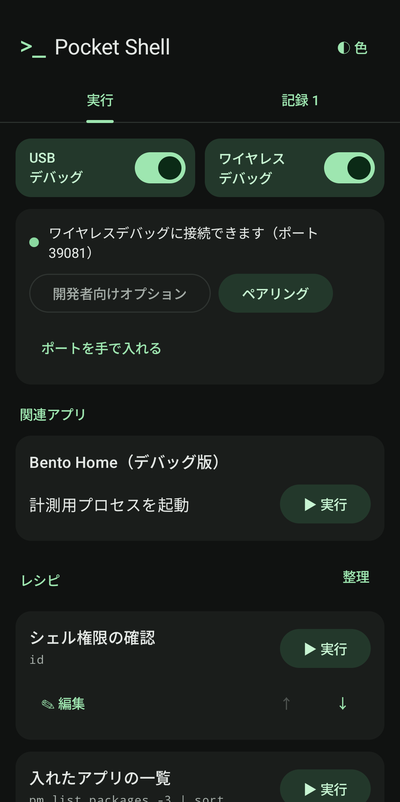
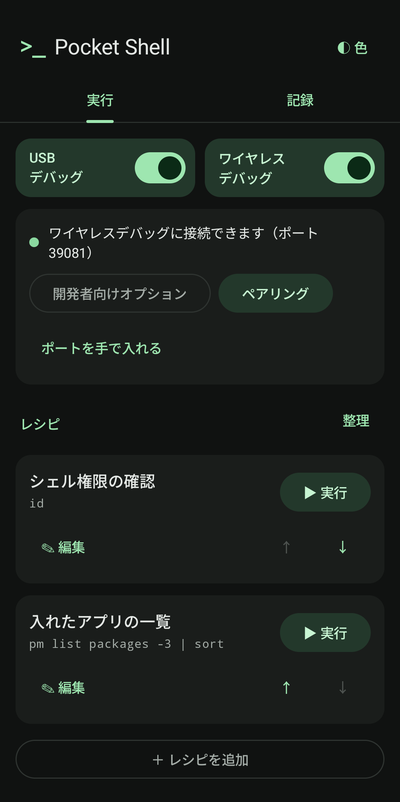
関連アプリの見出しに説明の i を付け、キャプチャから関連アプリを外す
- 「関連アプリ」の i を押すと、1行の説明を出す
- デバッグ版は debug.pocketshell.screenshot を 1 にすると関連アプリを出さない（キャプチャ用）
- 関連アプリが映っていたキャプチャを撮り直す
- ビルド番号の画像に「この行を7回続けて押す」を添える

diff --git a/app/src/main/java/com/rou39/pocketshell/MainActivity.kt b/app/src/main/java/com/rou39/pocketshell/MainActivity.kt
@@ -100,6 +100,8 @@ import androidx.compose.material3.DropdownMenu
 import androidx.compose.material3.DropdownMenuItem
 import androidx.compose.runtime.LaunchedEffect
 import androidx.compose.ui.semantics.Role
+import androidx.compose.ui.semantics.contentDescription
+import androidx.compose.ui.semantics.semantics
 import java.text.SimpleDateFormat
 import java.util.Date
 import java.util.Locale
@@ -351,7 +353,7 @@ class MainActivity : ComponentActivity() {
             item { SwitchRow(canToggle, connected = port != null, run) }
             item { ConnectionCard(port, manualPort, pairing, canToggle) }
             if (relatedApps.isNotEmpty()) {
-                item { SectionTitle("関連アプリ") }
+                item { RelatedTitle() }
                 items(relatedApps, key = { it.packageName }) { app -> RelatedAppCard(app, run) }
             }
             item {
@@ -614,6 +616,30 @@ class MainActivity : ComponentActivity() {
         PairingState.Pairing -> "ペアリング: 確認しています…"
         PairingState.Done -> "ペアリング済み"
         is PairingState.Failed -> s.message
+    }
+
+    /** 関連アプリの見出し。i を押すと1行の説明を出す。 */
+    @Composable
+    private fun RelatedTitle() {
+        var open by rememberSaveable { mutableStateOf(false) }
+        Column {
+            Row(verticalAlignment = Alignment.CenterVertically) {
+                SectionTitle("関連アプリ")
+                Box(
+                    contentAlignment = Alignment.Center,
+                    modifier = Modifier
+                        .padding(start = 8.dp, top = 8.dp)
+                        .size(22.dp)
+                        .clip(RoundedCornerShape(11.dp))
+                        .background(if (open) MaterialTheme.colorScheme.primaryContainer else MaterialTheme.colorScheme.surfaceContainerHigh)
+                        .toggleable(value = open, role = Role.Button, onValueChange = { open = it })
+                        .semantics { contentDescription = "関連アプリの説明" },
+                ) {
+                    Text("i", style = MaterialTheme.typography.labelMedium, color = MaterialTheme.colorScheme.primary)
+                }
+            }
+            if (open) Note("入っている対応アプリと一緒に使うためのボタンです。", Modifier.padding(start = 4.dp, top = 4.dp))
+        }
     }
 
     /** 入っている関連アプリの操作。中身のコマンドは見せず、ボタンだけにする。 */

diff --git a/app/src/main/java/com/rou39/pocketshell/data/RelatedApps.kt b/app/src/main/java/com/rou39/pocketshell/data/RelatedApps.kt
@@ -1,6 +1,7 @@
 package com.rou39.pocketshell.data
 
 import android.content.Context
+import android.content.pm.ApplicationInfo
 import android.content.pm.PackageManager
 
 /**
@@ -28,7 +29,18 @@ object RelatedApps {
         bento("Bento Home（デバッグ版）", "com.rou39.bentohome.debug"),
     )
 
-    fun installed(context: Context): List<RelatedApp> = ALL.filter { app ->
+    /**
+     * 入っている関連アプリ。キャプチャを撮るときは出さない（紛らわしいので）。
+     * デバッグ版だけ、`adb shell setprop debug.pocketshell.screenshot 1` で隠せる。
+     */
+    fun installed(context: Context): List<RelatedApp> = if (screenshotMode(context)) emptyList() else ALL.filter { app ->
         runCatching { context.packageManager.getPackageInfo(app.packageName, PackageManager.PackageInfoFlags.of(0)) }.isSuccess
+    }
+
+    private fun screenshotMode(context: Context): Boolean {
+        if (context.applicationInfo.flags and ApplicationInfo.FLAG_DEBUGGABLE == 0) return false
+        return runCatching {
+            Runtime.getRuntime().exec(arrayOf("getprop", "debug.pocketshell.screenshot")).inputStream.bufferedReader().readText().trim() == "1"
+        }.getOrDefault(false)
     }
 }

diff --git a/docs/setup.md b/docs/setup.md
@@ -6,7 +6,8 @@
 
 Android の設定 → デバイス情報 を開き、「ビルド番号」を7回続けて押します。「デベロッパーになりました」と出れば完了です。
 
-<img src="images/setup/01-build-number.png" width="320" alt="デバイス情報のビルド番号">
+<img src="images/setup/01-build-number.png" width="320" alt="デバイス情報のビルド番号"><br>
+この行を7回続けて押します。
 
 ## 2. ワイヤレスデバッグをオンにする
 
